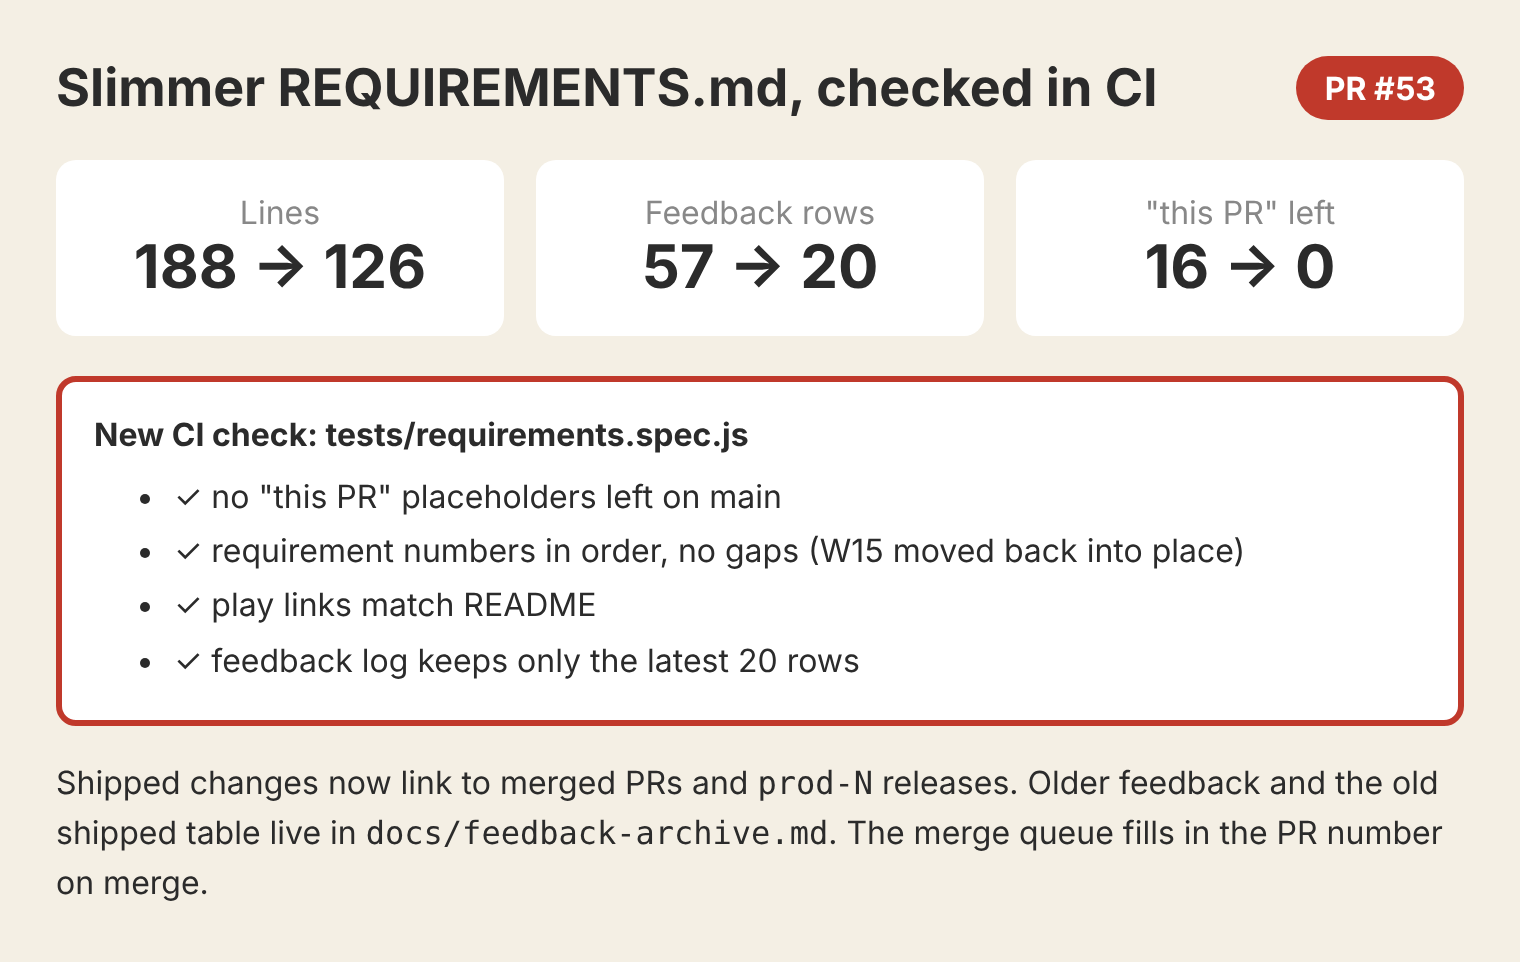
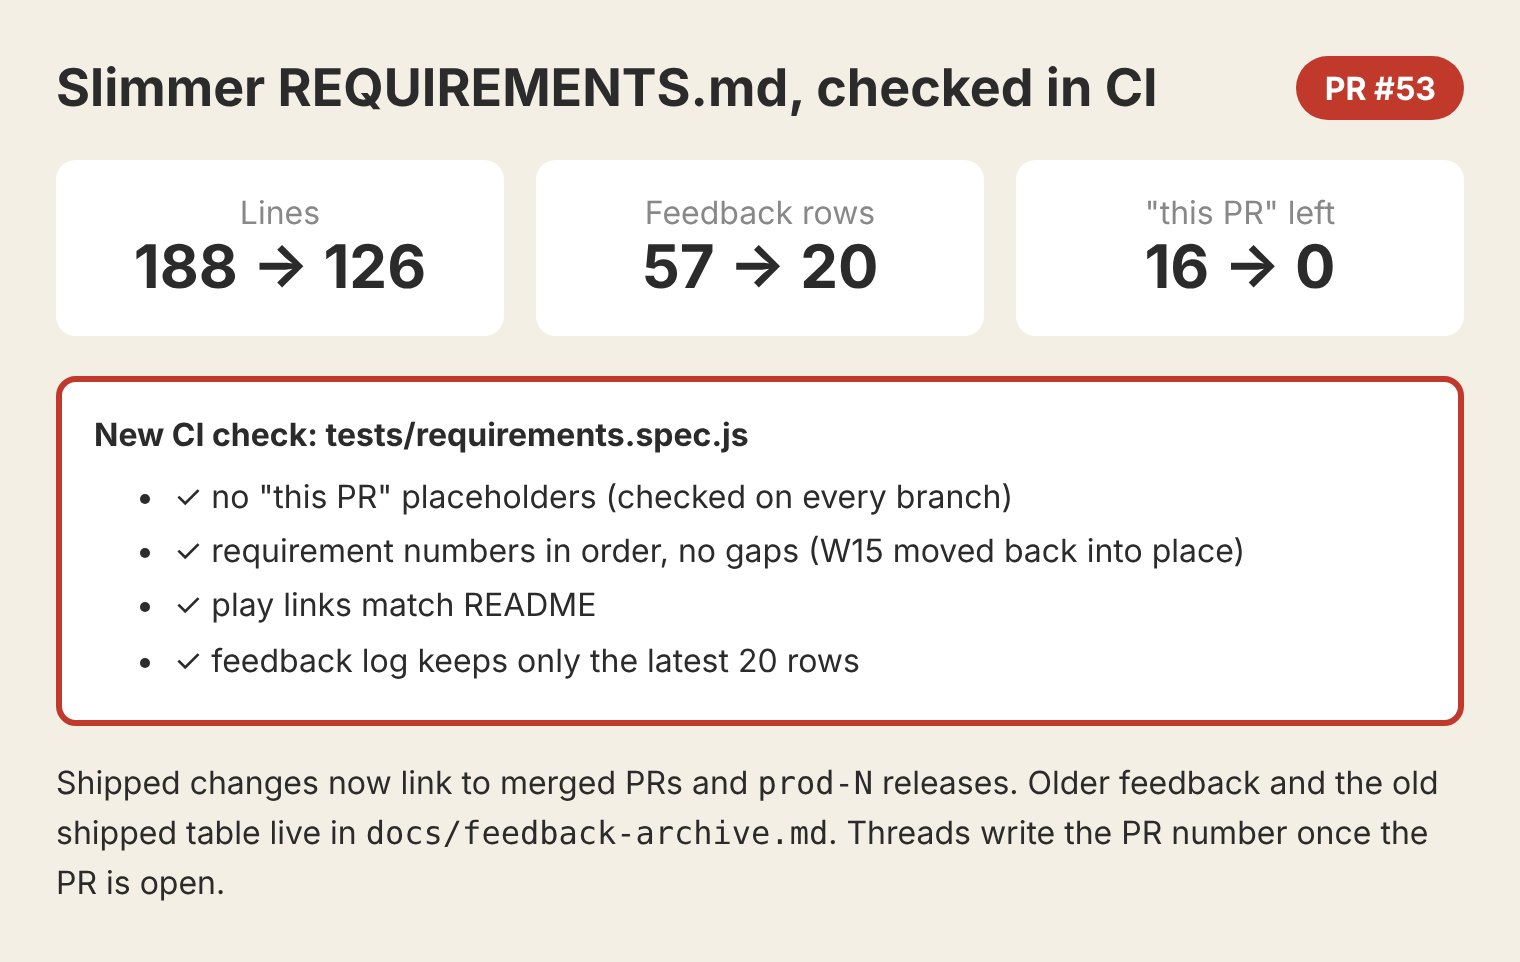
Drop the queue fill-in: write PR numbers, check every branch
Workflow PRs are merged by hand and skip the merge queue, so a queue-side
fill-in could let a placeholder reach main and break the deploy's tests.
Threads now write the number once the PR is open, and the requirements
test rejects "this PR" on every branch.

Claude-Session: https://claude.ai/code/session_01214AnRrLoqW2NqyRuSzbsM

Changed region(s): [[0.5875, 0.842, 0.9586, 0.9044], [0.402, 0.499, 0.6803, 0.5301], [0.0309, 0.9044, 0.1546, 0.9356]]

diff --git a/.github/scripts/merge-queue.js b/.github/scripts/merge-queue.js
@@ -31,17 +31,6 @@ const REVIEW_TRUSTED = ['OWNER', 'MEMBER', 'COLLABORATOR'];
 const REVIEW_BOTS = ['github-actions[bot]'];
 const NO_REVIEW_NEEDED = [/\.md$/i, /^docs\//, /\.(png|jpe?g|gif|webp)$/i];
 
-// REQUIREMENTS.md may say "this PR" while a PR is open (its number is not known yet when it is written);
-// after merging, the queue swaps each one for a link to the PR. tests/requirements.spec.js fails if any
-// is left on main.
-const LOG_FILE = 'REQUIREMENTS.md';
-const THIS_PR = /\bthis PR\b/gi;
-
-// Replaces every "this PR" in `text` with a link to PR `n`. Returns the text unchanged if there is none.
-function fillPrNumber(text, n, repoFullName) {
-  return text.replace(THIS_PR, `[#${n}](https://github.com/${repoFullName}/pull/${n})`);
-}
-
 const BAD = new Set(['failure', 'cancelled', 'timed_out', 'action_required', 'startup_failure', 'stale']);
 
 // True when the PR description shows at least one image (Markdown or HTML).
@@ -207,19 +196,6 @@ async function run({ github, context, core }) {
         `Deploying now; the play link follows once the live site serves this commit.`,
     });
     try {
-      const { data: file } = await github.rest.repos.getContent({ owner, repo, path: LOG_FILE, ref: 'main' });
-      const before = Buffer.from(file.content, 'base64').toString('utf8');
-      const after = fillPrNumber(before, n, full);
-      if (after !== before) {
-        await github.rest.repos.createOrUpdateFileContents({
-          owner, repo, path: LOG_FILE, branch: 'main', sha: file.sha,
-          message: `Fill in PR #${n} in ${LOG_FILE} [skip ci]`,
-          content: Buffer.from(after, 'utf8').toString('base64'),
-        });
-        say(`Filled in #${n} in ${LOG_FILE}.`);
-      }
-    } catch (e) { say(`${LOG_FILE} not updated: ${e.message}`); }
-    try {
       await github.rest.git.deleteRef({ owner, repo, ref: `heads/${pr.head.ref}` });
     } catch (e) { say(`Branch not deleted: ${e.message}`); }
     // A merge made with GITHUB_TOKEN does not fire "push", so start the deploy and the next queue run.
@@ -233,5 +209,4 @@ async function run({ github, context, core }) {
 
 module.exports = {
   run, hasScreenshot, changedLines, eligibility, MAX_CHANGED_LINES, checksState, REQUIRED_CHECK, reviewState, docsOnly,
-  fillPrNumber,
 };

diff --git a/tests/requirements.spec.js b/tests/requirements.spec.js
@@ -2,23 +2,11 @@
 const { test, expect } = require('@playwright/test');
 const fs = require('fs');
 const path = require('path');
-const { execSync } = require('child_process');
 
 const root = path.join(__dirname, '..');
 const read = (f) => fs.readFileSync(path.join(root, f), 'utf8');
 const log = read('REQUIREMENTS.md');
 const MAX_FEEDBACK_ROWS = 20;
-
-// True on main: CI pushes to main, or a local checkout of main. PR branches may still say "this PR";
-// the merge queue swaps it for the PR number when it merges.
-function onMain() {
-  if (process.env.GITHUB_REF) return process.env.GITHUB_REF === 'refs/heads/main';
-  try {
-    return execSync('git rev-parse --abbrev-ref HEAD', { cwd: root }).toString().trim() === 'main';
-  } catch {
-    return false;
-  }
-}
 
 // The table rows of one "## N. Title" section.
 function rows(title) {
@@ -27,11 +15,11 @@ function rows(title) {
   return m[1].split('\n').filter((l) => /^\| \d{4}-\d{2}-\d{2} \|/.test(l));
 }
 
-test('no "this PR" placeholders left on main', () => {
-  test.skip(!onMain(), 'only enforced on main; the merge queue fills in the number on merge');
+// Checked on every branch, so a placeholder can never reach main (PRs merged by hand included).
+test('no "this PR" placeholders', () => {
   for (const f of ['REQUIREMENTS.md', 'docs/feedback-archive.md']) {
     const left = read(f).split('\n').filter((l) => /\bthis PR\b/i.test(l));
-    expect(left, `${f} still says "this PR"; use the PR number`).toEqual([]);
+    expect(left, `${f} says "this PR"; write the PR number once the PR is open`).toEqual([]);
   }
 });
 

diff --git a/tests/merge-queue.spec.js b/tests/merge-queue.spec.js
@@ -75,12 +75,3 @@ test('docs-only PRs need no review', () => {
   expect(q.docsOnly([{ filename: 'REQUIREMENTS.md' }, { filename: 'game.js' }])).toBe(false);
   expect(q.docsOnly([])).toBe(false);
 });
-
-test('fills in the PR number for "this PR" in the requirements log', () => {
-  const repo = 'Hitoshi85/train-simulator';
-  expect(q.fillPrNumber('| W19 | New rule | Done (this PR) |', 52, repo))
-    .toBe('| W19 | New rule | Done ([#52](https://github.com/Hitoshi85/train-simulator/pull/52)) |');
-  expect(q.fillPrNumber('This PR and this pr', 7, repo)).toBe(
-    '[#7](https://github.com/Hitoshi85/train-simulator/pull/7) and [#7](https://github.com/Hitoshi85/train-simulator/pull/7)');
-  expect(q.fillPrNumber('Built in #51.', 52, repo)).toBe('Built in #51.');
-});

diff --git a/REQUIREMENTS.md b/REQUIREMENTS.md
@@ -53,7 +53,7 @@ is recorded here in the same PR or thread that handles it (see the rule in [CLAU
 | W4 | PRs merge on their own through the merge queue when every check is green on top of `main` and the description has a screenshot, for small PRs only: 800 changed lines or fewer, lock files and images not counted (Hitoshi's choice). Bigger PRs wait for "m" unless labelled `automerge`. A `hold` label keeps a PR out; PRs that change `.github/workflows/` still wait for the owner's "m". Replaces "the owner merges". | Done (#22) |
 | W5 | Merges to `main` deploy to GitHub Pages through the tested workflow, to **dev** only (`/train-simulator/dev/`). | In place (dev/prod split in #29) |
 | W6 | After every shipped change, share the latest mobile link with a cache-busting suffix: `https://hitoshi85.github.io/train-simulator/dev/?v=<short commit>` (prod after "Ship"). Since #22 the deploy workflow checks the live site first (`version.json` shows the new commit and the game starts) and comments the link on the merged PR. | In place (repo rule #13; live check in #22) |
-| W7 | Keep all requirements and feedback in this file, updated with every change and every piece of feedback. Kept small: the latest 20 feedback rows (older ones in `docs/feedback-archive.md`), PR numbers instead of placeholders (the merge queue fills one in on merge), and a CI test (`tests/requirements.spec.js`) that checks it. | In place; slimmed and checked in CI (#53) |
+| W7 | Keep all requirements and feedback in this file, updated with every change and every piece of feedback. Kept small: the latest 20 feedback rows (older ones in `docs/feedback-archive.md`), PR numbers instead of placeholders (written once the PR is open), and a CI test (`tests/requirements.spec.js`) that checks it. | In place; slimmed and checked in CI (#53) |
 | W8 | Show results (e.g. test runs) in simple tables when asked. | Preference |
 | W9 | Use several focused subagents in parallel for independent parts of a task, keeping token use balanced (few agents, small prompts). | In place |
 | W10 | When asking for approval on backlog items, ask one item at a time with 3 options, and always include an option to remove the item from the backlog without doing it (the issue is closed as not planned). | In place |
@@ -99,7 +99,7 @@ Newest at the bottom, latest 20 rows only: when a new row would make 21, move th
 | 2026-11-09 | "Ship" | Promoted dev d2c93ab to prod as release prod-2. The Ship run skipped its live check (workflow bug, fixed in #39); a follow-up deploy run verified prod-2 live and updated the README. |
 | 2026-11-10 | Review the tasks in the agentic AI review doc and decide them one by one. | Decided A to H one at a time; all eight filed as `task` issues, none built yet. A: scheduled reviewer only, run daily, not hourly (#41). B: veto window with no triage run, 36 hours instead of 24 (#42). C: batch all of a task's questions in one message, no "decide and show" (#43). D: screenshot comparison and balance test, one reviewer, no second fresh-session review (#44). E: split game.js as written, after A to D land (#45). F: as written (#46). G: as written (#47). H: weekly report folded into the daily reviewer run, on Fridays (#48). |
 | 2026-11-10 | Agentic review item C (narrower clarifying-question rule): Hitoshi chose **batch only**, Claude still asks about every change but sends all of a feature's questions together. | Implemented in #50 (W2, CLAUDE.md); closes #43. |
-| 2026-11-10 | Build agentic review item F (#46) as written: slim REQUIREMENTS.md and check it in CI; "proceed with all in the order that makes sense". | Built in #53: Shipped changes now points to merged PRs and releases, feedback rows older than the latest 20 and the old shipped table moved to docs/feedback-archive.md, every placeholder replaced with its number (the merge queue fills in any new one on merge), and a lint test in CI (W7). |
+| 2026-11-10 | Build agentic review item F (#46) as written: slim REQUIREMENTS.md and check it in CI; "proceed with all in the order that makes sense". | Built in #53: Shipped changes now points to merged PRs and releases, feedback rows older than the latest 20 and the old shipped table moved to docs/feedback-archive.md, every placeholder replaced with its number, and a lint test in CI (W7). Instead of the queue filling in PR numbers on merge, threads write the number once the PR is open and CI rejects the placeholder on every branch, because hand-merged workflow PRs skip the queue (found in project review). |
 
 ## 4. Open backlog
 

diff --git a/CLAUDE.md b/CLAUDE.md
@@ -67,9 +67,8 @@ feedback (dated, with the outcome) in **Feedback log**, update requirement statu
 opens a small PR updating the log. Shipped changes are the merged PRs and `prod-N` releases (no table).
 Keep it small, `tests/requirements.spec.js` checks it in CI:
 - The feedback log keeps the latest 20 rows; move older rows to the bottom of `docs/feedback-archive.md`.
-- Write PR numbers, not "this PR". Once the PR is open, use its number; any "this PR" left is filled
-  in by the merge queue on merge, and the check fails if one reaches `main` (fill it in by hand before
-  an "m" merge).
+- Write PR numbers, never "this PR": open the PR, then push its number into the log (CI fails on the
+  placeholder on every branch).
 - R and W requirements stay numbered in order with no gaps; the play links match README.md.
 
 ## Commands
